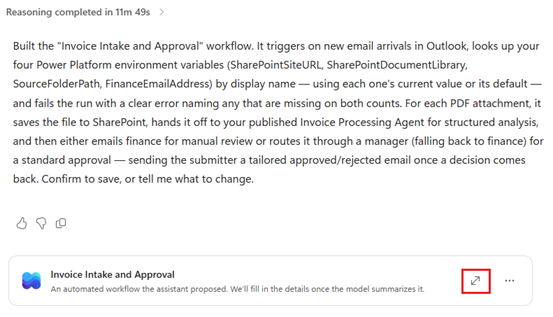
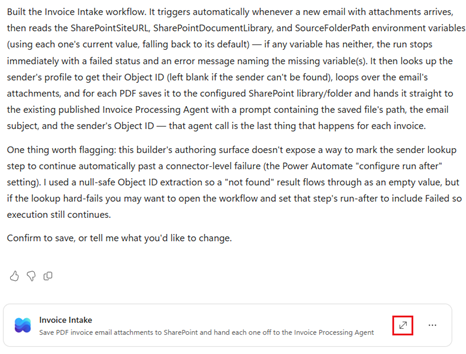
Update Runbook testing steps and screenshots
Simplify agent instructions, rewrite Step 4-2 workflow testing with screenshots.

Copilot-Session: e54a8bad-18eb-402d-9f97-2b0bf30d3809

diff --git a/01-scenarios/Autonomous-Invoice-Orchestration-Agent-GHCP/3.Runbook.md b/01-scenarios/Autonomous-Invoice-Orchestration-Agent-GHCP/3.Runbook.md
@@ -262,13 +262,13 @@ Create following environment variables to the solution. **NOTE!** When developin
    Create agent named "Invoice Processing Agent" using "Claude Sonnet 5" model. Do not create skills referenced in the instructions I will upload existing skills after agent is created and also do not include anything about this in instructions. They should be exactly as defined below
 
    INSTRUCTIONS:
-   You are the **Invoice Processing Agent**. Users send you invoices either as a PDF attachment directly in the chat, or as a link to a file in a SharePoint document library.
+   You are the Invoice Processing Agent. Users send you invoices either as a uploaded PDF file directly in the chat, or as a link to a file in a SharePoint document library.
 
    If a user sends a message unrelated to invoice processing, respond helpfully but keep your primary focus on invoice intake, extraction, and review.
 
-   When a user provides an invoice (as an attachment or a SharePoint link), run '**invoice-extraction-review**' skill. It tells you exactly which fields to extract, how to handle missing information, and how to decide and summarize the outcome before saving a row to the Auto Invoice Review table. Use the SharePoint tool only when the invoice is provided as a SharePoint document library link, to fetch the file's content before reading it. Use the Dataverse tool to create the record in the Auto Invoice Review table once you have extracted and validated the fields.
+   When a user provides an invoice either uploaded in chat or SharePoint link, run invoice-extraction-review skill. 
 
-   If invoice is submitted directly in the agent by the user response with table of extracted values
+   If users is using agent directly (not used autonomously) and invoice is uploaded in chat then response with table of extracted values and high-level summary of the invoice
 
    TOOLS:
    SharePoint MCP
@@ -356,7 +356,9 @@ More information about [Workflows agent node](https://learn.microsoft.com/en-us/
    | 6 | Sender lookup | An Office 365 Users **Get user profile (V2)** step inside the loop, after the file is saved. **User (UPN)** is the email's sender address and **Select fields** is `id`. A failed or empty lookup does not stop the run, and the Object ID is then empty | Add the step and set the two values by hand. Set the step to continue the run when it fails, if Workflows offers that setting `[VERIFY]` G3 |
    | 7 | Agent node | The node is named `InvoiceProcessingAgent` and calls the existing published **Invoice Processing Agent**, not a new inline agent. Its prompt is `Process invoice:` with the saved PDF path, the email subject and `SubmittedBy:` with the Object ID from the lookup. It never carries the sender's email address. The output is the default text and is not used. The node is the last step inside the loop, and the workflow has no decision, approval or email step | Select **An existing agent** and the published agent. Delete any custom structured output and every step after the node. If the agent is not listed, publish it again as in [Step 3-2](#step-3-2-publish-the-agent-for-the-workflow) |
 
-6. Save the workflow but do **not** publish it yet. Publish it at the end of [Step 3-4](#step-3-4-build-the-approval-workflow-invoice-approval), after the approval workflow is on. Otherwise the agent writes rows that nothing picks up. **NOTE!** Remember that the workflow will then trigger from every email sent to the mailbox of the account used as the connection in the workflow trigger.
+<br>
+
+6. **Save** the workflow but do **NOT** publish it yet. We will publish this flow in the testing phase in  of [Step 4-2](#step-4-2-test-the-workflows). **NOTE!** Remember that the workflow will then trigger from every email sent to the mailbox of the account used as the connection in the workflow trigger.
 
 ### Step 3-4. Build the Approval Workflow (Invoice Approval)
 
@@ -419,21 +421,53 @@ Use agent [Preview](https://learn.microsoft.com/en-us/microsoft-copilot-studio/a
 
 3. Run the prompt
 
-4. For each run, inspect which tools were called and in what order. For a PDF uploaded in the chat, check that `GetMyProfile` was called and that it returned your own profile and not the profile of the connection owner `[VERIFY]` G1.
-5. Check that the Dataverse row and the review JSON file agree, that the **Submitted By** column holds the Object ID from the prompt (or your own Object ID for a chat upload), and that the Review Link opens.
-6. Check that an unreadable PDF and instruction-like text in a PDF end in an ignored instruction or a clear failure, with no extra writes, and that a message without an invoice makes the agent ask for one.
-7. Record the PDF-reading result as gate G1, then run the cases in [Capability Tests](4.Sample-prompts.md#capability-tests).
+4. Inspect which tools were called and in what order
+   
+5. Check that PDF invoice and raw JSON review files are saved in SharePoint and Dataverse table record is created. Check also that sharing link is created for both files
+   
+6. Record the PDF-reading result as gate G1, then run the cases in [Capability Tests](4.Sample-prompts.md#capability-tests).
 
 ### Step 4-2. Test the Workflows
 
 Test with a test mailbox, a test sender who has a manager, a test sender who has none and the synthetic invoices before any real mail. Test the approval workflow first, because it needs no email, then the intake workflow, then both together.
 
-1. Turn on **Invoice Approval** only. In the **Auto Invoice Review** table add one row by hand with Decision `READY_FOR_APPROVAL`, all the invoice columns filled and your own Object ID in **Submitted By**. Confirm the approval arrives with the right fields and links. Add a second row with Decision `NEEDS_REVIEW` and an issue text, and confirm that Finance receives the manual review email with the submitter in CC and that no approval starts. Add a third row with an empty **Submitted By** and confirm that the approval goes to Finance and the run continues. Edit a row and confirm that no run starts.
-2. Approve one test approval and reject another, and confirm that the submitter gets the matching email. Remove the `FinanceEmailAddress` value and confirm that the run fails with a message that names it. Delete your test rows afterwards.
-3. Test the intake workflow's Agent node on its own with the node's **Test** pane, then turn on **Invoice Intake** for the test mailbox. Send an email with the sample invoice and confirm the PDF is in `/Invoices/Sources`, the agent writes a row whose **Submitted By** is the Object ID of the sender and the review file, and the intake run ends without an error. Send an email from an address that is not in the directory and confirm that the run continues and the row's Submitted By is empty. Remove a required environment variable value and confirm that the run fails with a message that names it.
-4. With both workflows on, send the complete invoice and confirm the approval arrives. Send the invoice without a purchase order number and confirm that no approval starts and Finance receives the manual review email with the issue and the submitter in CC.
-5. Run the [composed scenario and the other cases](4.Sample-prompts.md#acceptance-cases): a corrected invoice, a repeated invoice, no PDF, several PDFs, an agent that fails before it saves a row, and an approval outcome that is neither approve nor reject.
-6. Keep partial, failed and unknown outcomes distinct. A successful intake run does not prove that a row exists, so for a failed run, compare the saved PDFs with the rows and inspect the run history before any replay.
+1. Turn on **Invoice Approval** workflow
+   
+2. Send email with some of the sample PDF invoices to email address used in the workflow trigger
+   
+   ![alt text](0.Resources/Images/test-invoice-email.png)
+   
+3. Follow the whole process workflow execution
+   
+   ![alt text](0.Resources/Images/intake-workflow.png) 
+
+4.  Check that files are saved in SharePoint and table record created 
+   
+   ![alt text](0.Resources/Images/spo-source-inv.png)
+
+   ![alt text](0.Resources/Images/table-record-created.png) 
+
+   ![alt text](0.Resources/Images/spo-review-json.png) 
+   
+5. After record is saved to table it will start **Intake Approval** workflow. If invoice decision value is **READY_FOR_APPROVAL** then approval will be send to manager of the user submitted invoice by email. If there is no manager defined then approval should be send to email address you defined in FinanceEmailAddress environment variable
+   
+   ![alt text](0.Resources/Images/approval-workflow.png)
+   
+6. Test the approval process at least twice by approving and rejecting approval to see both emails to be sent correctly to person who submitted invoice. 
+   
+7. Test also by removing the `FinanceEmailAddress` value and confirm that the run fails with a message that names it.
+   
+8. Then test with sample PDF invoice which is missing information and should be emailed to finance team (FinanceEmailAddress) 
+
+   ![alt text](0.Resources/Images/test-invoice-email-2.png)  
+
+9. Verify that **Invoice Approval** flow didn't start the approval but sent invoice information to finance team for manual approval. Submitter should be CC'd in the email
+      
+10. Delete your test rows and files saved to SharePoint afterwards.
+   
+11. Run the [composed scenario and the other cases](4.Sample-prompts.md#acceptance-cases): a corrected invoice, a repeated invoice, no PDF, several PDFs, an agent that fails before it saves a row, and an approval outcome that is neither approve nor reject.
+   
+12. Keep partial, failed and unknown outcomes distinct. A successful intake run does not prove that a row exists, so for a failed run, compare the saved PDFs with the rows and inspect the run history before any replay.
 
 Record real results separately from expectations in [Sample prompts](4.Sample-prompts.md#recording-results).
 
